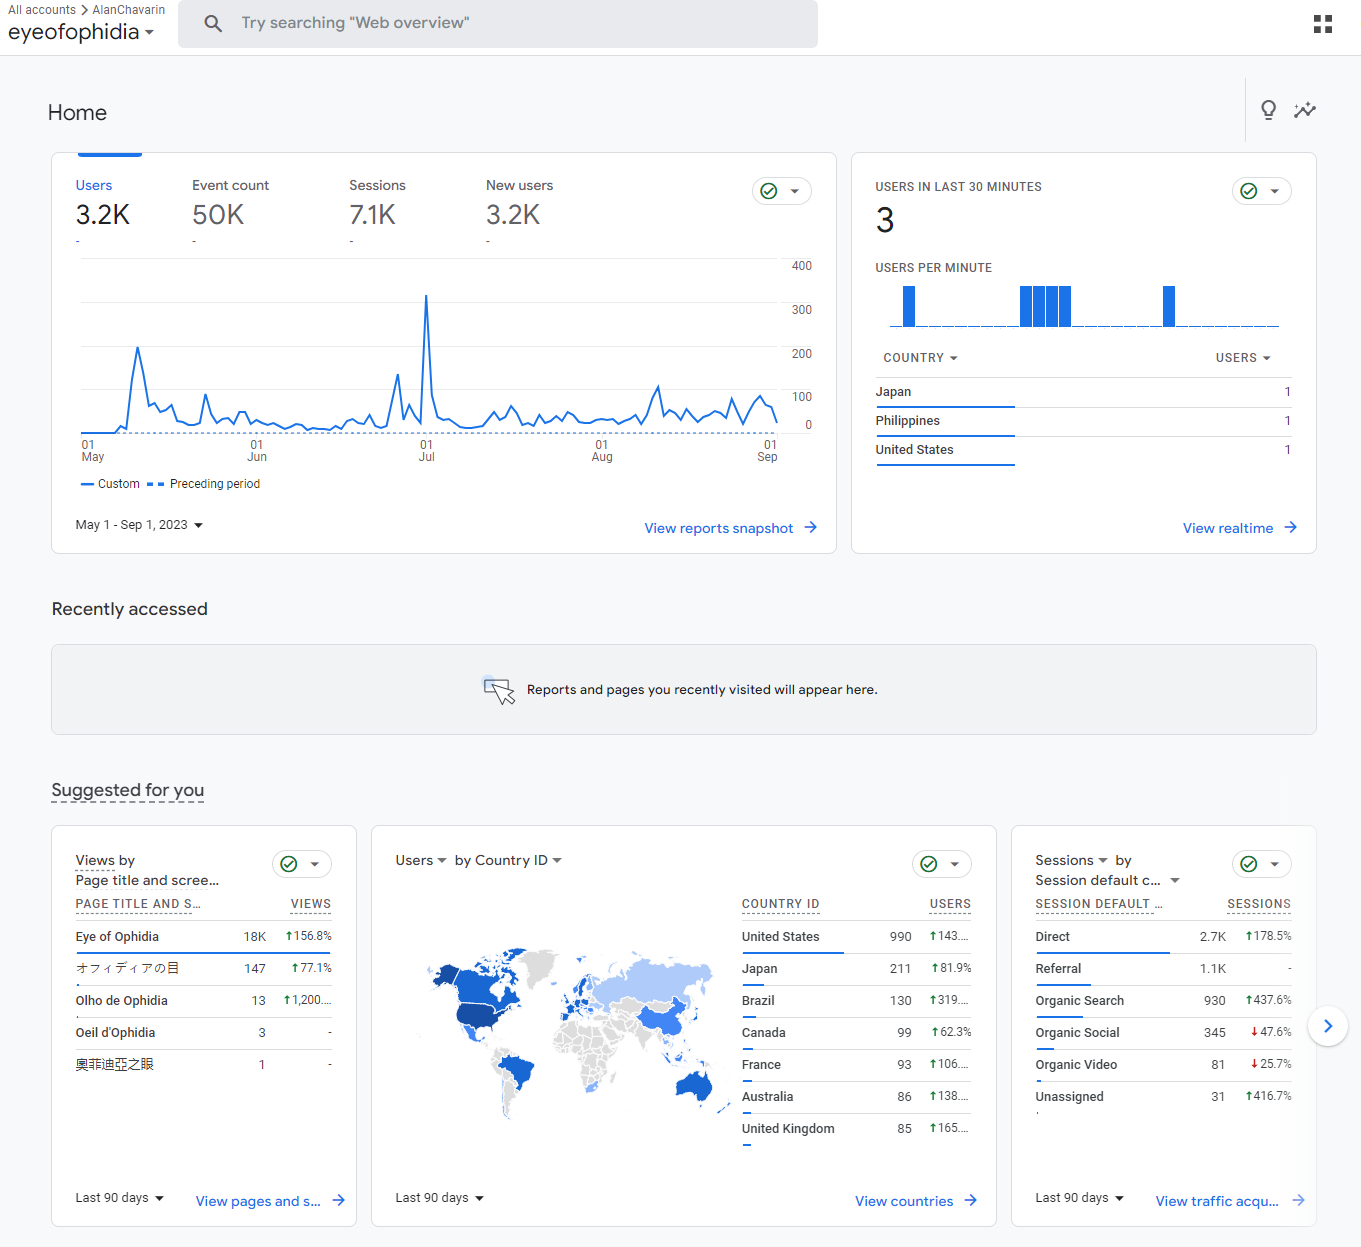
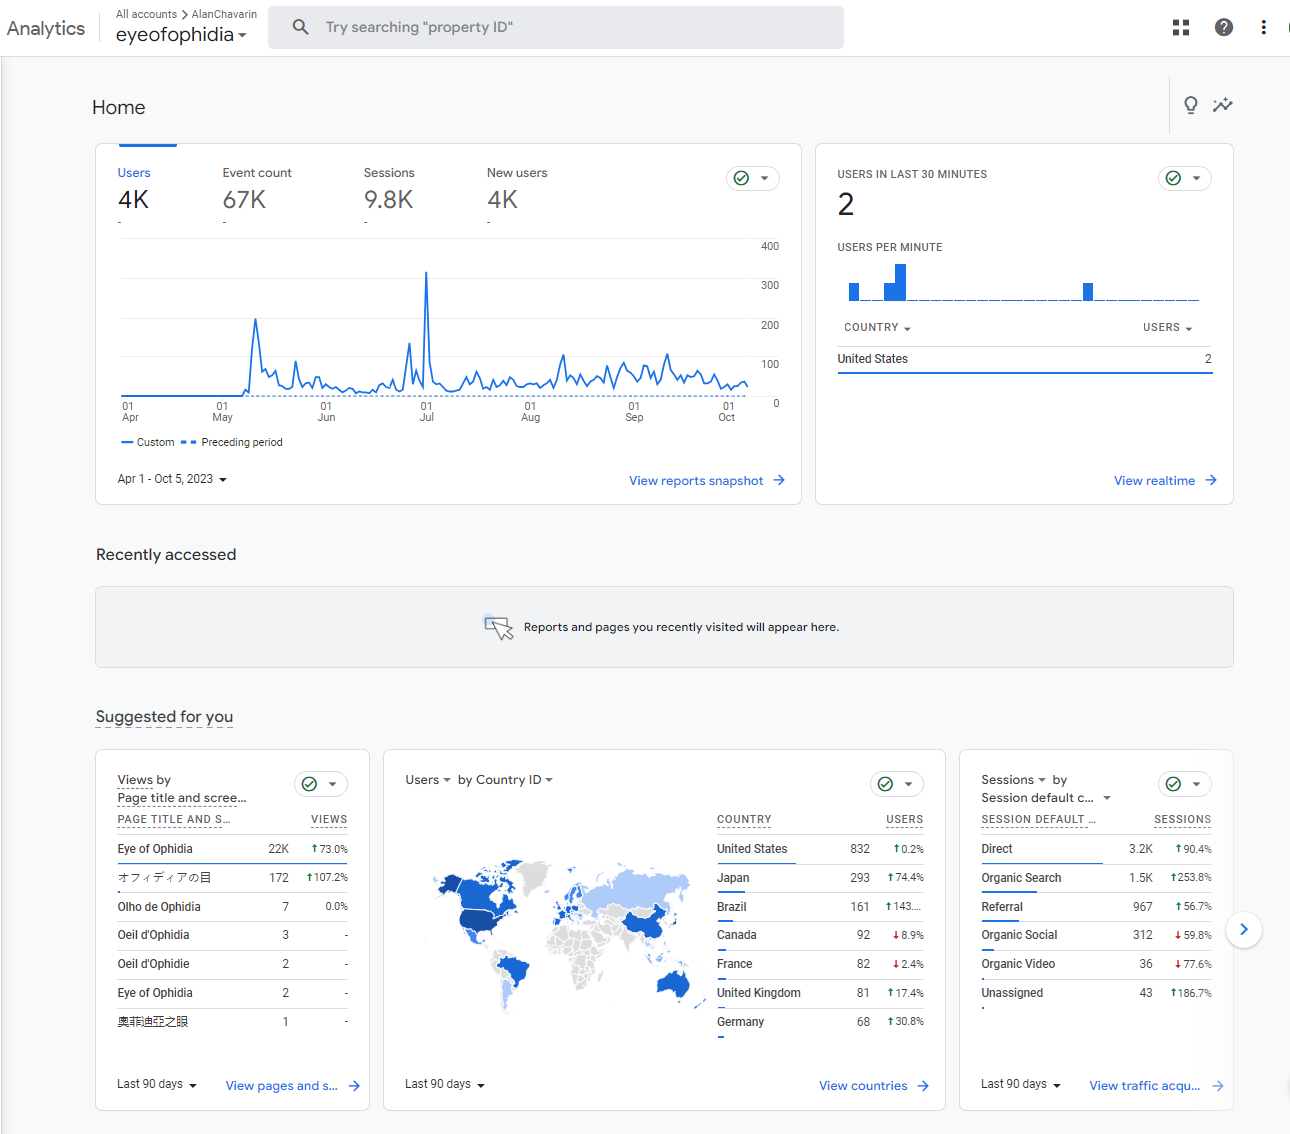
updated analytics stats

diff --git a/src/components/pages/Portfolio.jsx b/src/components/pages/Portfolio.jsx
@@ -26,7 +26,7 @@ function Portfolio() {
                         This is a fullstack tool was built using the <span>M.E.R.N. stack</span> (Mongodb, Express, Node, React). It is currently deployed using Railway.
                     </p>
                     <p className={PortfolioCSS.text}>
-                        <a href="https://www.eyeofophidia.net" target="blank" className={PortfolioCSS.a}>Eyeofophidia.net</a> has had over 3000+ unique visitors from over 20+ different countries around the world according to my Google Analytics page. Players of the card game have found the site tremendously useful especially right after large tournaments.
+                        <a href="https://www.eyeofophidia.net" target="blank" className={PortfolioCSS.a}>Eyeofophidia.net</a> has had over 3900+ unique visitors from over 20+ different countries around the world according to my Google Analytics page. Players of the card game have found the site tremendously useful especially right after large tournaments.
                     </p>
                     
                     <p className={PortfolioCSS.linkContainer}>

diff --git a/src/App.js b/src/App.js
@@ -29,8 +29,8 @@ function App() {
             <div className="PageContainer">
               <Home onScrollTo={onScrollTo}/>
               <About/>
-              <TechStack/>
               <Portfolio/>
+              <TechStack/>
               <Contact />
             </div></>
           }/>
